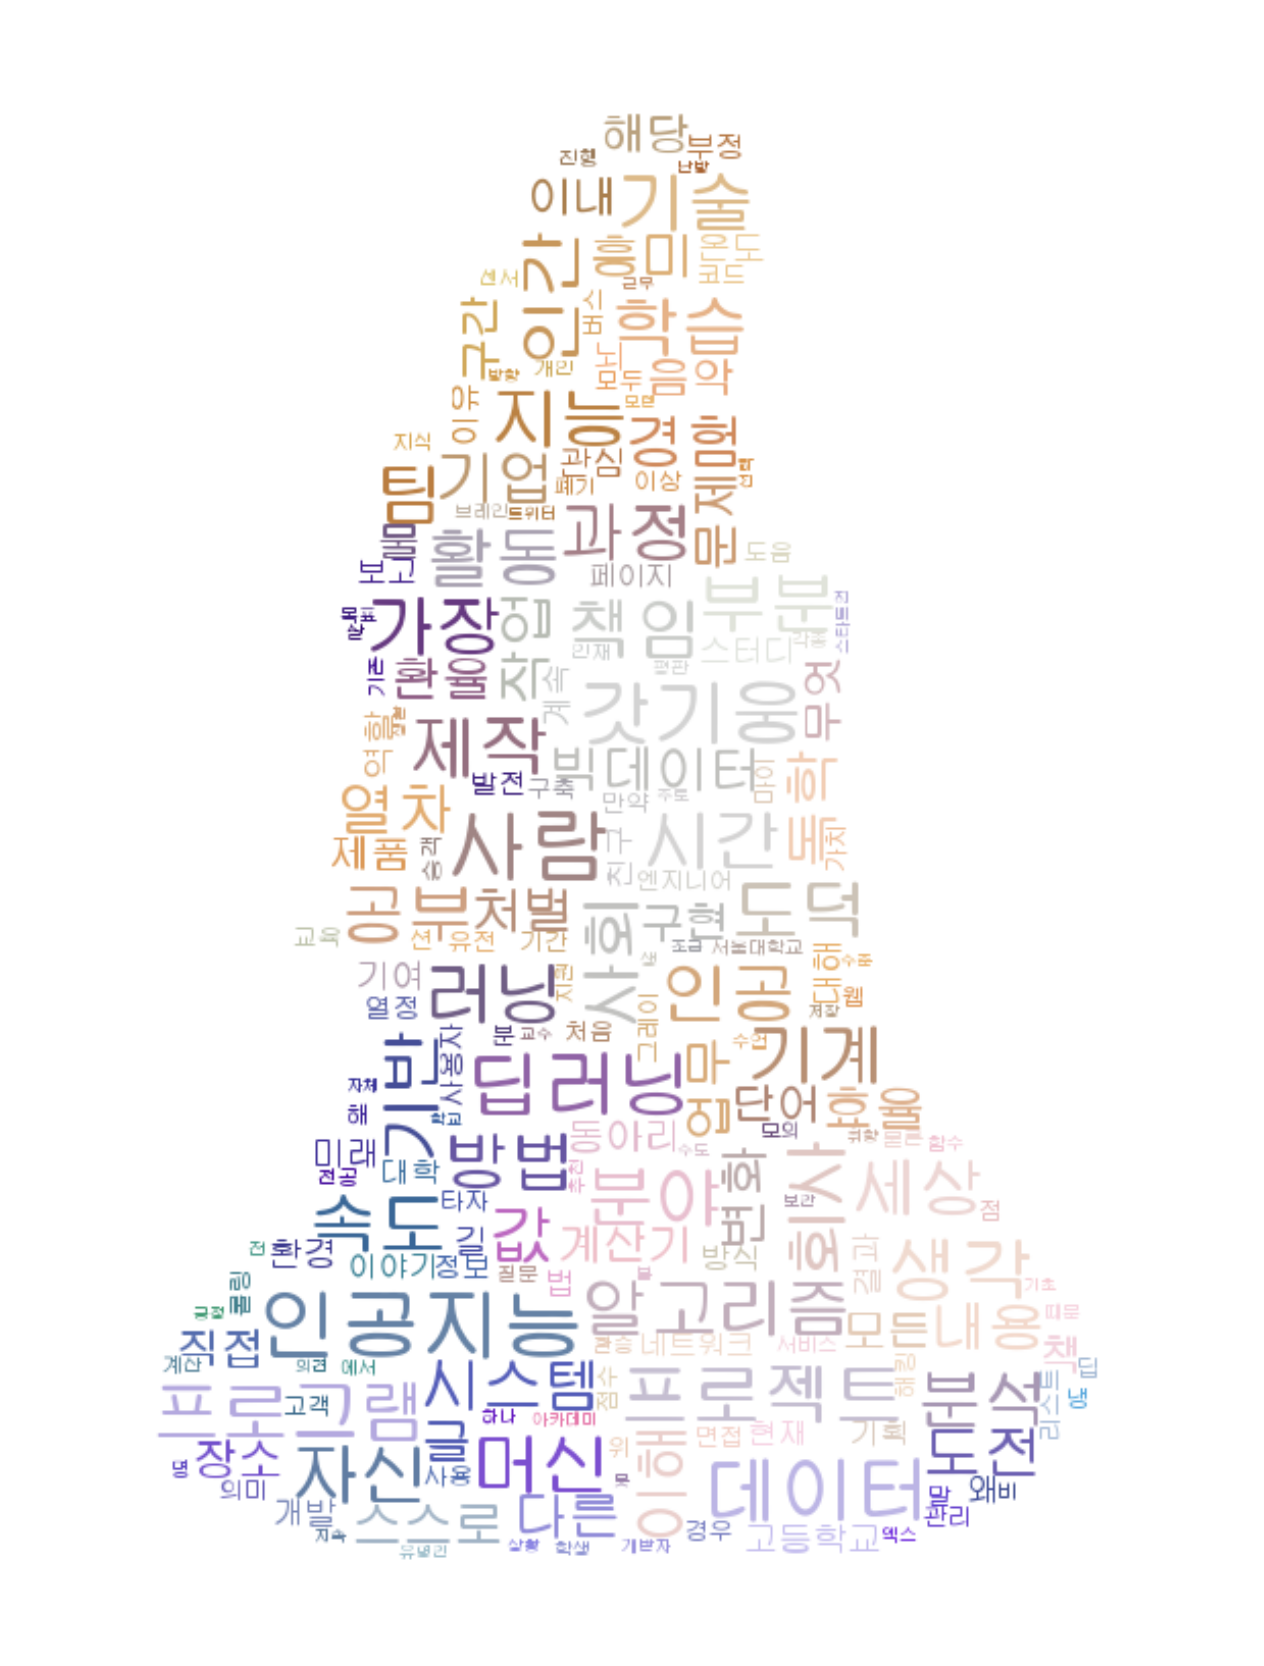
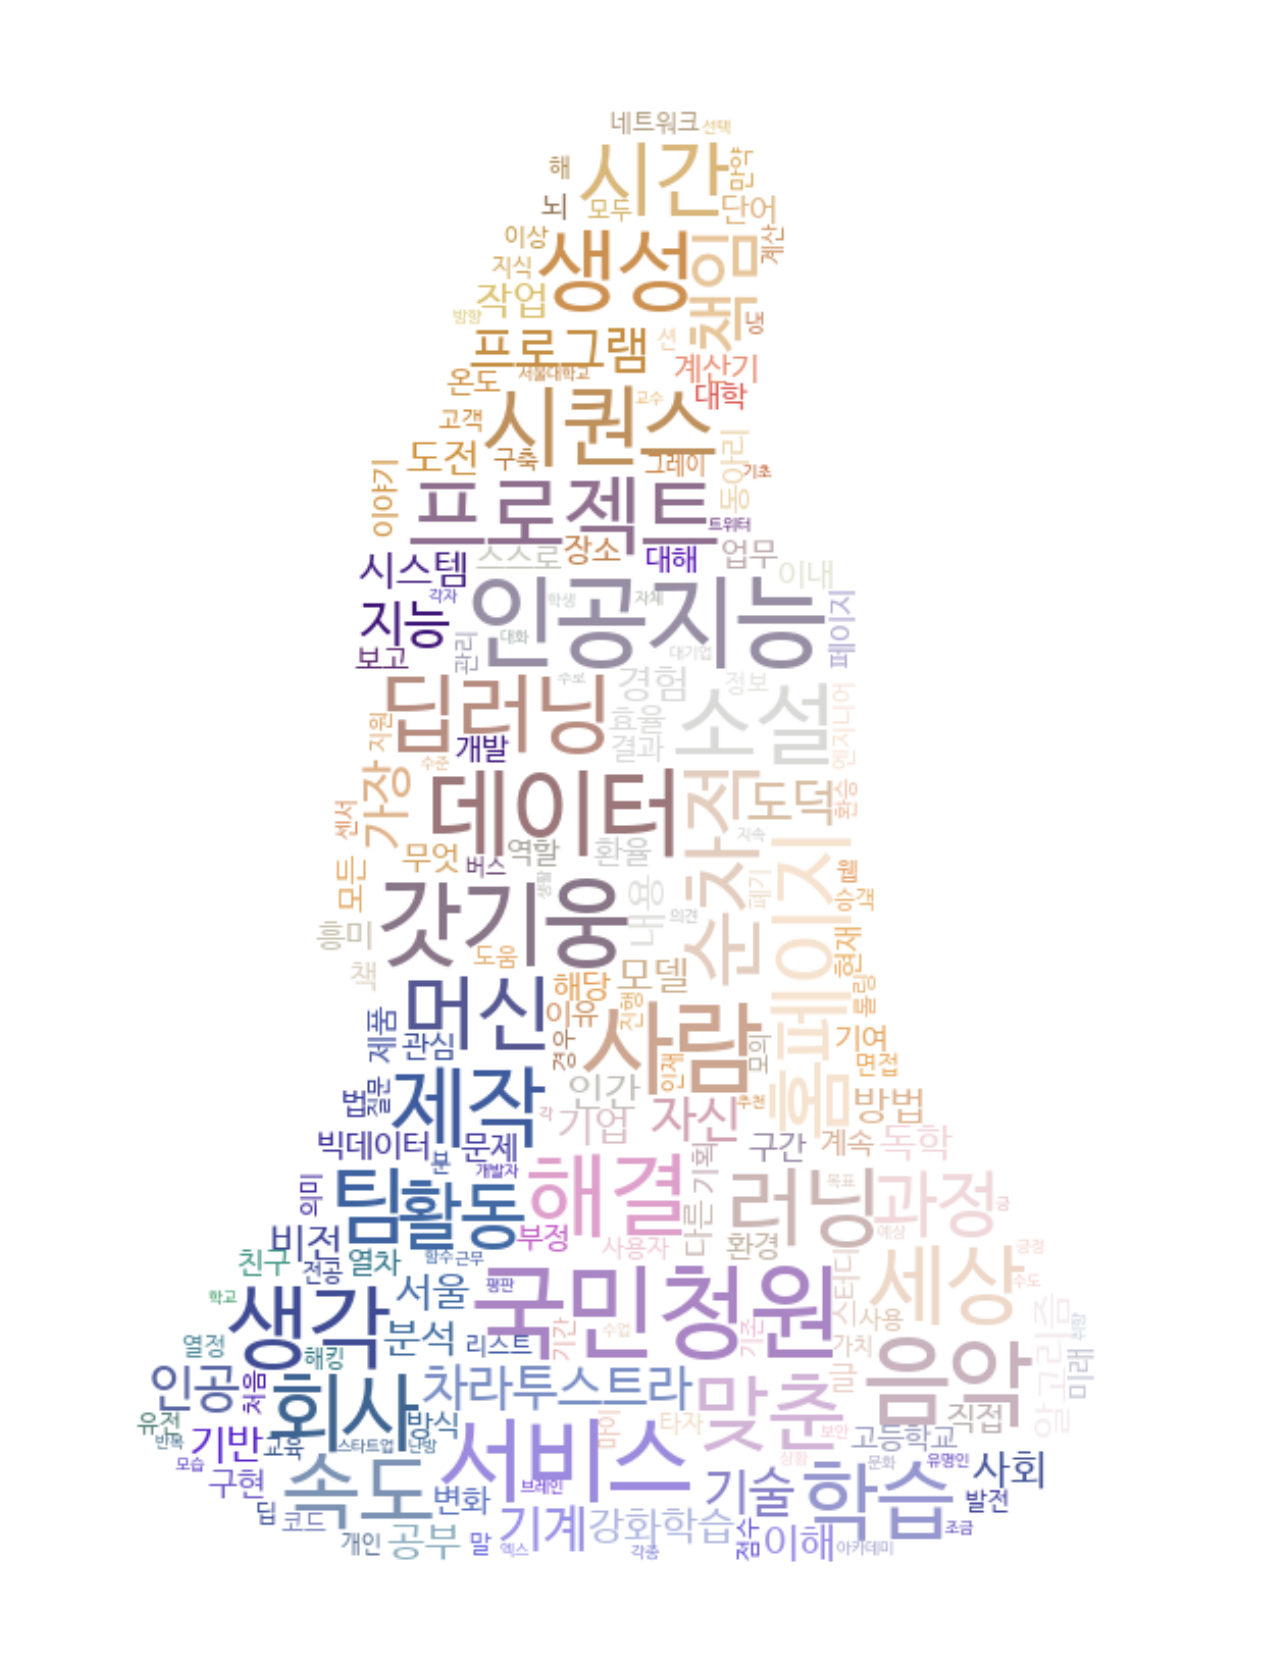
자기소개 변경

Changed region(s): [[0.0926, 0.0625, 0.8646, 0.9369]]

diff --git a/about.md b/about.md
@@ -38,25 +38,82 @@ This is my personal blog. It currently has {{ site.posts | size }} posts in {{ s
   <figcaption>Kiwoong Yeom</figcaption>
 </figure>
 
-Community detection, Sequence model, Generic model에 큰 관심이 있습니다. 현재 Computer Vision 분야가 큰 인기를 가지고 있지만, 점점 Sequence model 쪽으로 관심이 바뀌게 되리라고 믿고 있습니다. 
 
-<!--
-<figure class="third">
-	<a href="{{ site.url }}/images/about/1.jpg"><img src="{{ site.url }}/images/about/1-001.jpg"></a>
-	<a href="{{ site.url }}/images/about/2.jpg"><img src="{{ site.url }}/images/about/2-001.jpg"></a>
-	<a href="{{ site.url }}/images/about/3.jpg"><img src="{{ site.url }}/images/about/3-001.jpg"></a>
-</figure>
-<figure class="half">
-	<a href="{{ site.url }}/images/about/4.jpg"><img src="{{ site.url }}/images/about/4-001.jpg"></a>
-	<a href="{{ site.url }}/images/about/5.jpg"><img src="{{ site.url }}/images/about/5-001.jpg"></a>
-</figure>
-<figure class="third">
-	<a href="{{ site.url }}/images/about/6.jpg"><img src="{{ site.url }}/images/about/6-001.jpg"></a>
-	<a href="{{ site.url }}/images/about/7.jpg"><img src="{{ site.url }}/images/about/7-001.jpg"></a>
-	<a href="{{ site.url }}/images/about/8.jpg"><img src="{{ site.url }}/images/about/8-001.jpg"></a>
-	<figcaption>Doha at its full glory.</figcaption>
-</figure>
--->
+## EXPERIENCE
+### 국민청원 분석으로 국민의 생각 알아보기  - *Team project*
+2018.12.26 -
+- 국민소통광장의 ‘국민청원 및 제안’ 데이터를 크롤링하여 국민의 생각을 데이터 기반으로 분석 (워드클라우드, 네트워크 제작, 각종 데이터 분석, 데이터를 기반으로 Top 키워드 이슈 요약, 보고서 제작, 청원 글 벡터화, 문재인 대통령 지지율 찾기 등)
+- https://github.com/newhiwoong/National-Petition 
+
+### 서울에서 갈만한 장소 추천 사이트 제작 - *Team project*
+2018.10.07 - 12.20
+- 서울의 장소, 현재 날씨와 위치 데이터를 가지고 ‘어디를 갈까?’에 대해 고민하는 사람들을 대상으로 서울 내의 갈만한 장소를 추천(기상청 API 받기, 추천 알고리즘 제작, 웹 개발, 업무 지도 등 모든 부분 총괄)
+- https://github.com/newhiwoong/Sejong_ITIP- 
+- https://bit.ly/2S8pMFr 
+
+### 다용도 Word Cloud - *Personal Project*
+2018.12
+- 자기소개서, 좋아하는 가수의 가사들, 카카오톡 대화 등을 자신이 원하는 형태의 모습으로 Word Cloud 제작
+- https://github.com/newhiwoong/Multipurpose_Word_Cloud 
+
+### 유전 알고리즘을 이용한 공항 철도 속도 최적화, *G-TSC - Team project*
+2017.08.24 - 09.02
+- 유전 알고리즘으로 속도를 조절해 열차가 환승 시간에 맞게 도착하게 하는 
+- 시뮬레이션 진행 (유전 알고리즘 부분)
+- (1800 세대 후 성능이 약 4배 상승)
+- https://github.com/newhiwoong/GeneticAlgorithm-TSC 
+
+### 타자 연구 프로그램 제작, *STAR - Personal Project*
+2017.05.18 - 06.02
+- 타자의 속도와 타이핑 대상을 분석해 부족한 부분을 집중해서 연습하게 하는 프로그램
+- https://github.com/newhiwoong/STAR 
+
+### 머신러닝 분야 독학  - *Study*
+2017.04 - 
+- 기초 통계, 신경망, 데이터 분석, 선형대수학 독학
+- 오일석의 '패턴인식', 마이클 네그네빗스키의 ‘인공지능 개론’ 독학
+
+### (유)아키텍트그룹 근무  - *Company, Solutions Engineer*
+2016.08.22 - 2017.02.17
+- Si 업체 기술 팀 근무(이슈 해결, 유지 보수, 각종 관리, 스크립트 제작, 교육 등)
+- LG 팀 마이그레이션 작업, Seafile 제품 총괄, 외국인 CEO 가이드, 제품 docs 제작 등
+
+### 환율 계산기 제작, CRP  - *Personal Project*
+2016.05.13 - 15
+- API를 이용한 환율 환산 및 메모 기능을 추가한 계산기 제작
+- https://github.com/newhiwoong/CRP 
+
+### 버스 냉 난 방 조절 시스템 구현 및 민원 신청  - *Team Project*
+2016.01.05 - 03.25
+- 센서로 객관적인 데이터를 얻어 온도를 조절하는 모의 환경을 구축                 
+- 서울시 응답소에 민원 신청 (기획, 디자인, 라즈베리파이)
+
+### OS 제작 스터디, MINT64OS  - *Study ,Personal Project*
+2015.12.30 - 2016.02.28                  
+- OS 개발 환경 구축 및 각종 운영 모드, 레지스터 등을 학습 후 부드로드 제작 및 
+- 보호 모드 전환까지 진행
+- https://github.com/newhiwoong/MINT64OS                  
+
+### 나쁜녀석들 팬 페이지 제작  - *Team Project*
+2014.11
+- 동아리 부원들과 좋아하는 드라마의 팬페이지 제작 
+- (프론트엔드 부분, DB 연동)
+- https://github.com/newhiwoong/bad-guys 
+
+## EDUCATION
+### 세종대학교 - *데이터사이언스학과*
+2018.03.01 -  
+학부 1학년 때 4학년 수업 지능형 시스템과 대학원 수업 기계학습특론에서 우수한 성적을 받으며 인공지능 분야 학습 또한 현재 학부 연구생으로 다양한 프로젝트를 진행 중
+
+### 서울대학교 빅데이터 아카데미 - *Big Data Engineer 과정*
+2017.08.21 - 2017.09.15  
+서울대 교수님들에게 데이터 분산 처리 시스템인 Hadoop / Spark부터 기계 학습, 텍스트 분석, 딥러닝, 웹 애널리틱스 이론을 배운 후 실습 및 프로젝트 진행 후 수강생 대표로 선정됨
+
+### 한세사이버보안고등학교 - *해킹보안과*
+2014.03.01 - 2017.02.10  
+프로그래밍, 컴퓨터 구조, 알고리즘, 네트워크, 정보보안 등의 과목을 이수 및 네트워크 보안 동아리 활동 수행. 정보처리기능사, 리눅스마스터, 네트워크관리사 등 기본적인 자격증 취득
+
+
 <h2>Connect</h2>
-newhiwoong@gmail.com  
-https://github.com/newhiwoong 
+✉ [newhiwoong@gmail.com]()  
+🌐 [https://github.com/newhiwoong](https://github.com/newhiwoong)
